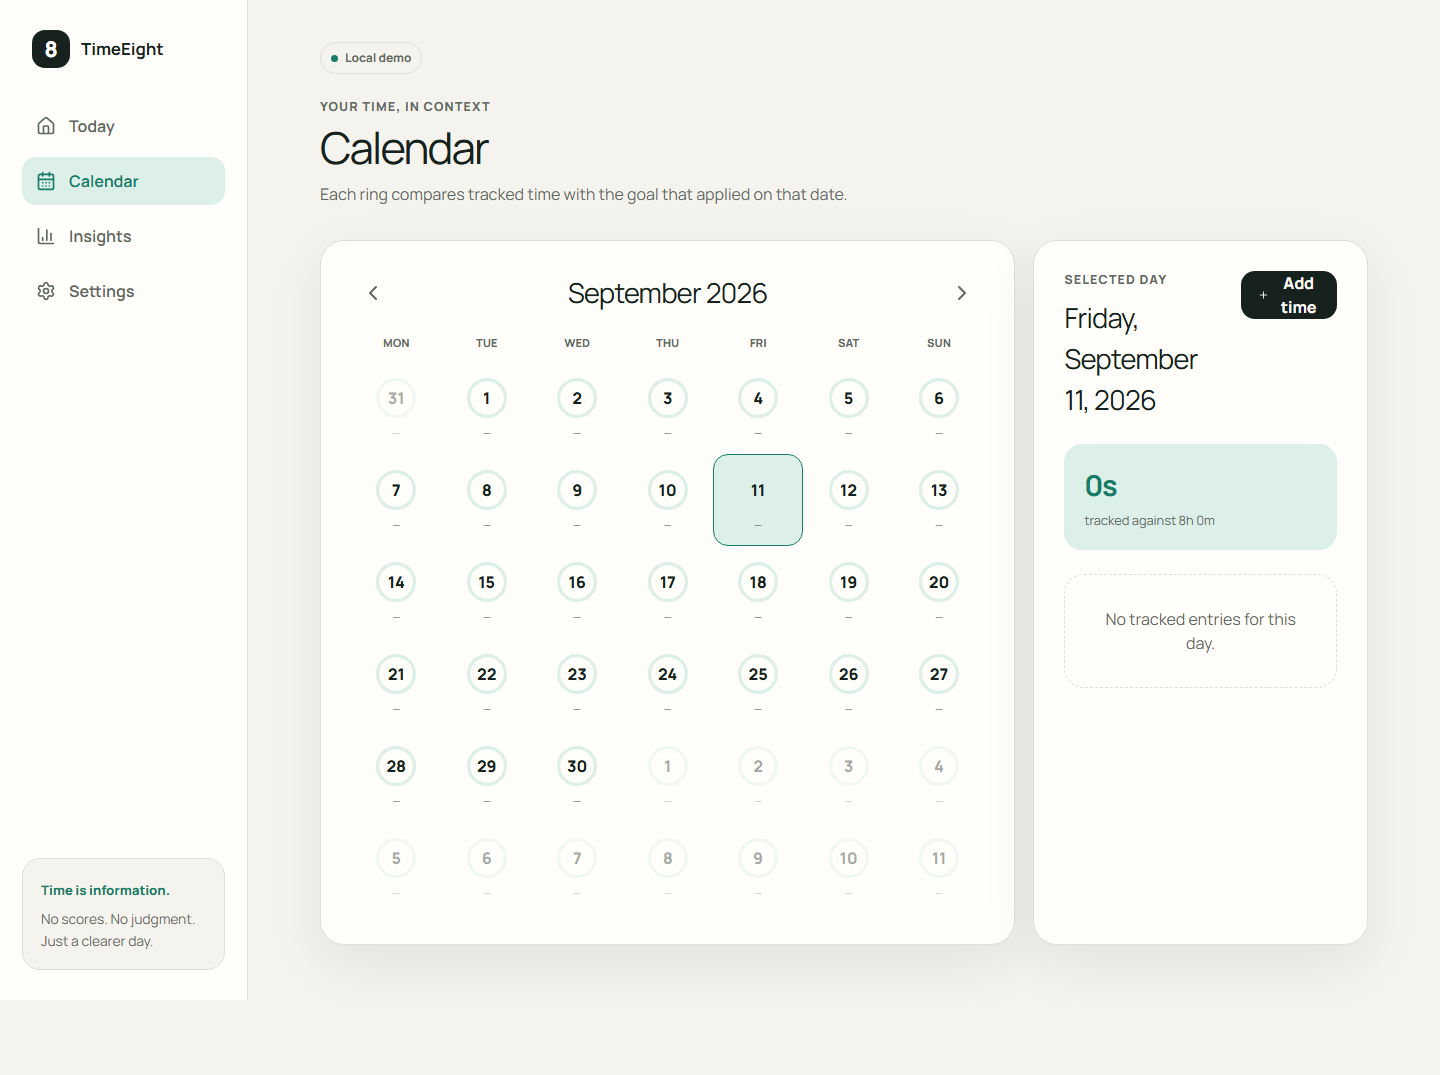
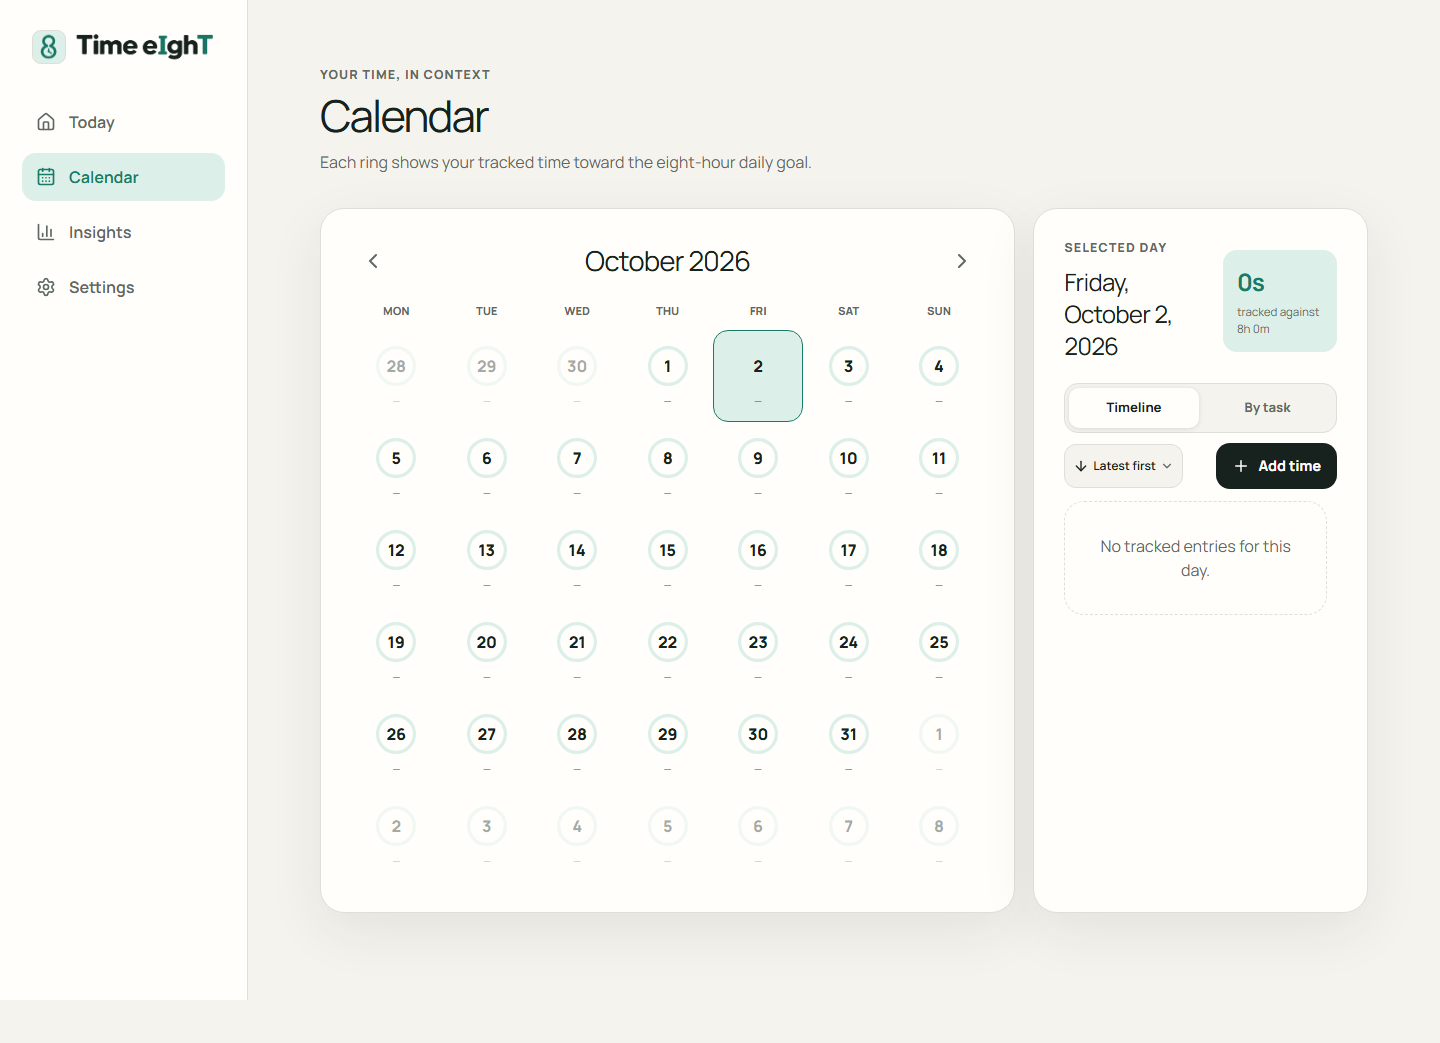
docs: introduce TimeEight with current product views
Replace implementation and deployment details with a plain-language product introduction. Refresh public screenshots from the current interface without local-demo or development markers.

diff --git a/README.md b/README.md
@@ -1,74 +1,49 @@
 # TimeEight
 
-A calm, local-first timer for intentionally spending—or limiting—time across your day.
+**Start a timer. Understand your day.**
+
+TimeEight is a personal time-awareness app for seeing where your time goes. Start a timer when something begins, stop it when you are done, and build a clear record of your day without having to plan every hour in advance.
+
+[Open TimeEight](https://timeeight.vercel.app/)
 
 ![TimeEight Today view](docs/screenshots/today-desktop.png)
 
-TimeEight tracks all chosen time without labeling leisure or work as more valuable. Build-time tasks count up toward an “at least” target; limit-time tasks count down and ask before continuing past an allowance.
+## Why TimeEight exists
 
-## What works
+A day can feel busy while still being difficult to explain. Traditional calendars show what was scheduled, but not necessarily what happened. Many time trackers are designed for billing, timesheets, or rigid productivity systems.
 
-- Concurrent, timestamp-based timers with one active timer per task.
-- IndexedDB checkpoints, offline mutations, server reconciliation, and crash recovery.
-- Reorderable task templates with keyboard and button alternatives.
-- A fixed eight-hour daily goal with preserved history, a timer-only three-hour streak, and one weekly streak saver.
-- Calendar rings, duration-based corrections, neutral records, JSON export, and deletion.
-- Supabase Auth/PostgreSQL with tested row-level security.
-- Responsive light/dark UI and an installable Serwist PWA shell.
+TimeEight focuses on a simpler question: **what did you spend time on today?**
 
-<details>
-<summary>More screenshots</summary>
+It turns running timers into a readable daily picture. You can look back at individual sessions, compare days, and notice patterns without rebuilding your day from memory.
 
-![TimeEight mobile Today view](docs/screenshots/today-mobile.png)
+## Two ways to think about time
+
+Some activities are things you want to spend more time doing. Others are things you want to keep within a boundary. TimeEight supports both:
+
+- **Build time** counts upward toward an intention, such as learning, exercising, or working on a project.
+- **Limit time** counts downward from an allowance, such as screen time or another activity you want to keep in view.
+
+Different tasks can run at the same time when real life overlaps. If a limit is reached, TimeEight pauses and lets you decide whether to continue.
+
+## Your time, from today to the bigger picture
+
+- **Today** shows what is running, how much time remains, and how the day is taking shape.
+- **Calendar** turns past days into a visual history and lets you inspect or correct individual entries.
+- **Insights** summarizes tracked time across days and tasks so longer-term patterns are easier to see.
 
 ![TimeEight Calendar view](docs/screenshots/calendar-desktop.png)
 
-</details>
+TimeEight is designed for both desktop and mobile, with light and dark themes and controls that stay usable with touch, a mouse, or a keyboard.
 
-## Stack
+<p align="center">
+  <img src="docs/screenshots/today-mobile.png" alt="TimeEight Today view on mobile" width="390" />
+</p>
 
-Next.js App Router, React, strict TypeScript, Tailwind CSS, Radix UI, Supabase, Dexie, Serwist, Zod, dnd-kit, Vitest, Playwright, pgTAP, and axe-core.
+## Made for everyday interruptions
 
-## Local setup
+Timers use their real start and stop times, so switching tabs or putting a device to sleep does not make the clock drift. Checkpoints help recover an interrupted session, and signed-in accounts can continue across devices without creating duplicate history.
 
-Requirements: Node.js 22+, pnpm 11, and Docker Desktop for the local Supabase stack.
-
-```bash
-pnpm install
-cp .env.example .env.local
-pnpm supabase start
-pnpm dev
-```
-
-Copy the local Supabase URL and publishable key into `.env.local`. The app falls back to an account-free local demo when Supabase is not configured.
-
-Useful checks:
-
-```bash
-pnpm format:check
-pnpm lint
-pnpm typecheck
-pnpm test
-pnpm test:e2e
-pnpm supabase test db
-pnpm build
-```
-
-## Architecture and security
-
-Timer, calendar, aggregation, and streak rules live in framework-independent TypeScript modules. IndexedDB is the immediate local store; UUID-backed mutations synchronize to Supabase when online. PostgreSQL derives summaries from immutable time entries rather than mutable counters.
-
-Every exposed table uses row-level security and least-privilege grants. Server clients are request-scoped, secret keys stay server-only, auth callbacks validate redirect paths, public email auth is gated behind SMTP and Turnstile configuration, and the service worker caches only static assets plus a data-free offline page. See [SECURITY.md](SECURITY.md) for reporting.
-
-## Deploying
-
-1. Create a managed Supabase project and apply `supabase/migrations` before the web release.
-2. Configure Google OAuth and exact production/preview redirect allowlists.
-3. Import the repository into Vercel and add the variables from `.env.example`.
-4. Keep `NEXT_PUBLIC_ENABLE_EMAIL_AUTH=false` until custom SMTP and Turnstile are configured.
-5. Run a preview smoke test before promoting to production. Do not run destructive migrations from preview deployments.
-
-The first public Vercel URL will be added after the production project is linked.
+You can correct past durations, export a personal backup, and remove your account when you no longer want it. TimeEight keeps the record useful without turning it into a schedule you have to obey.
 
 ## License
 
